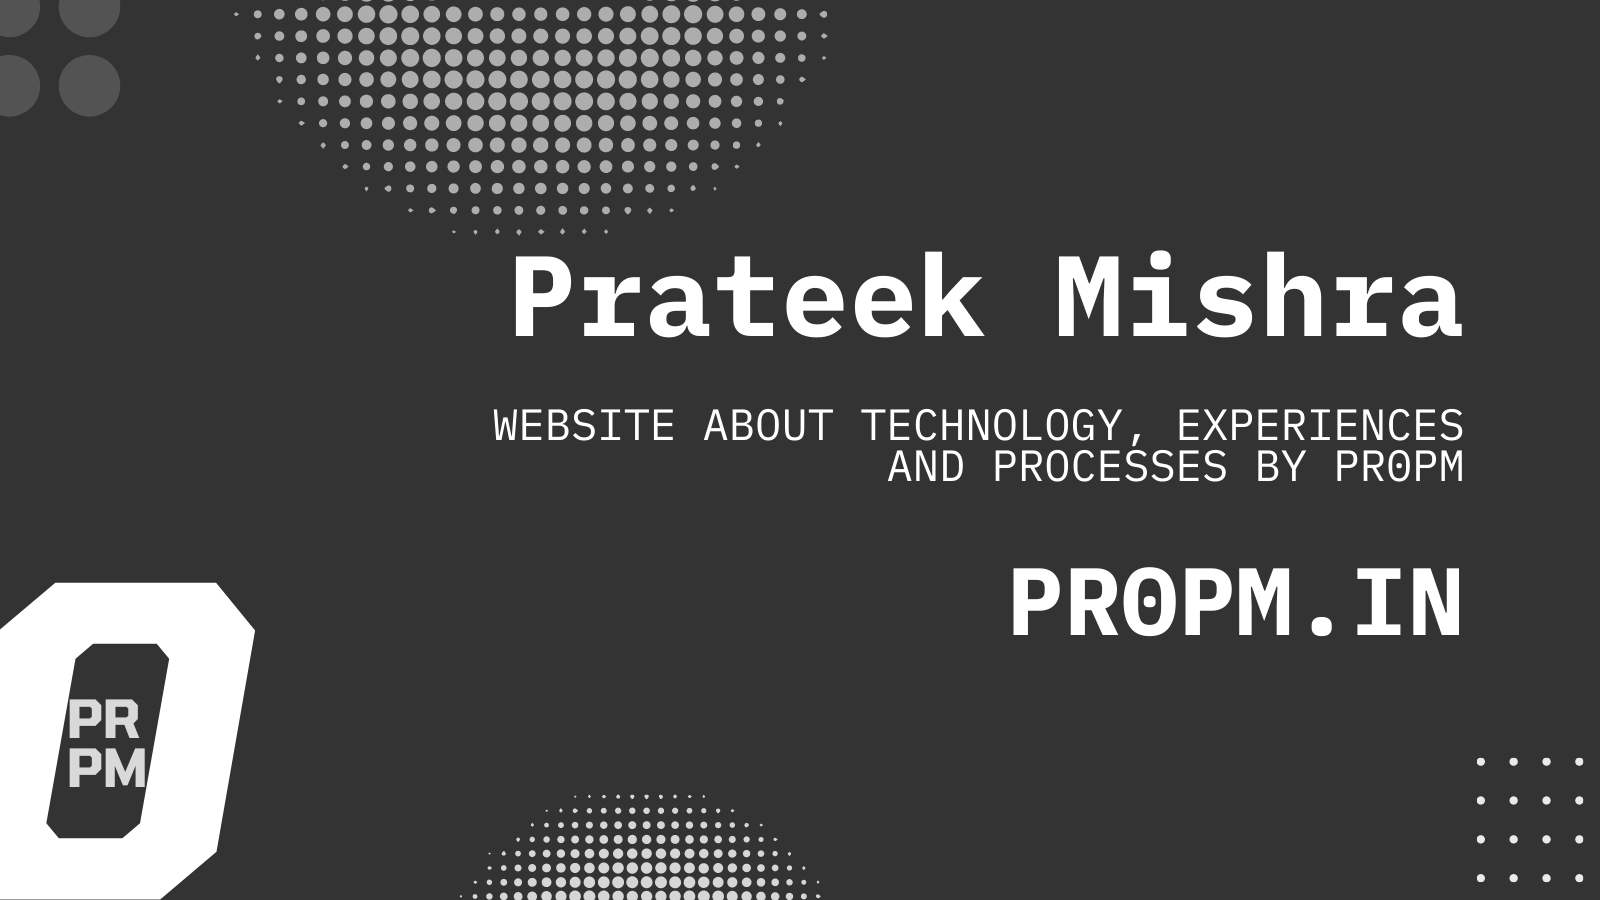
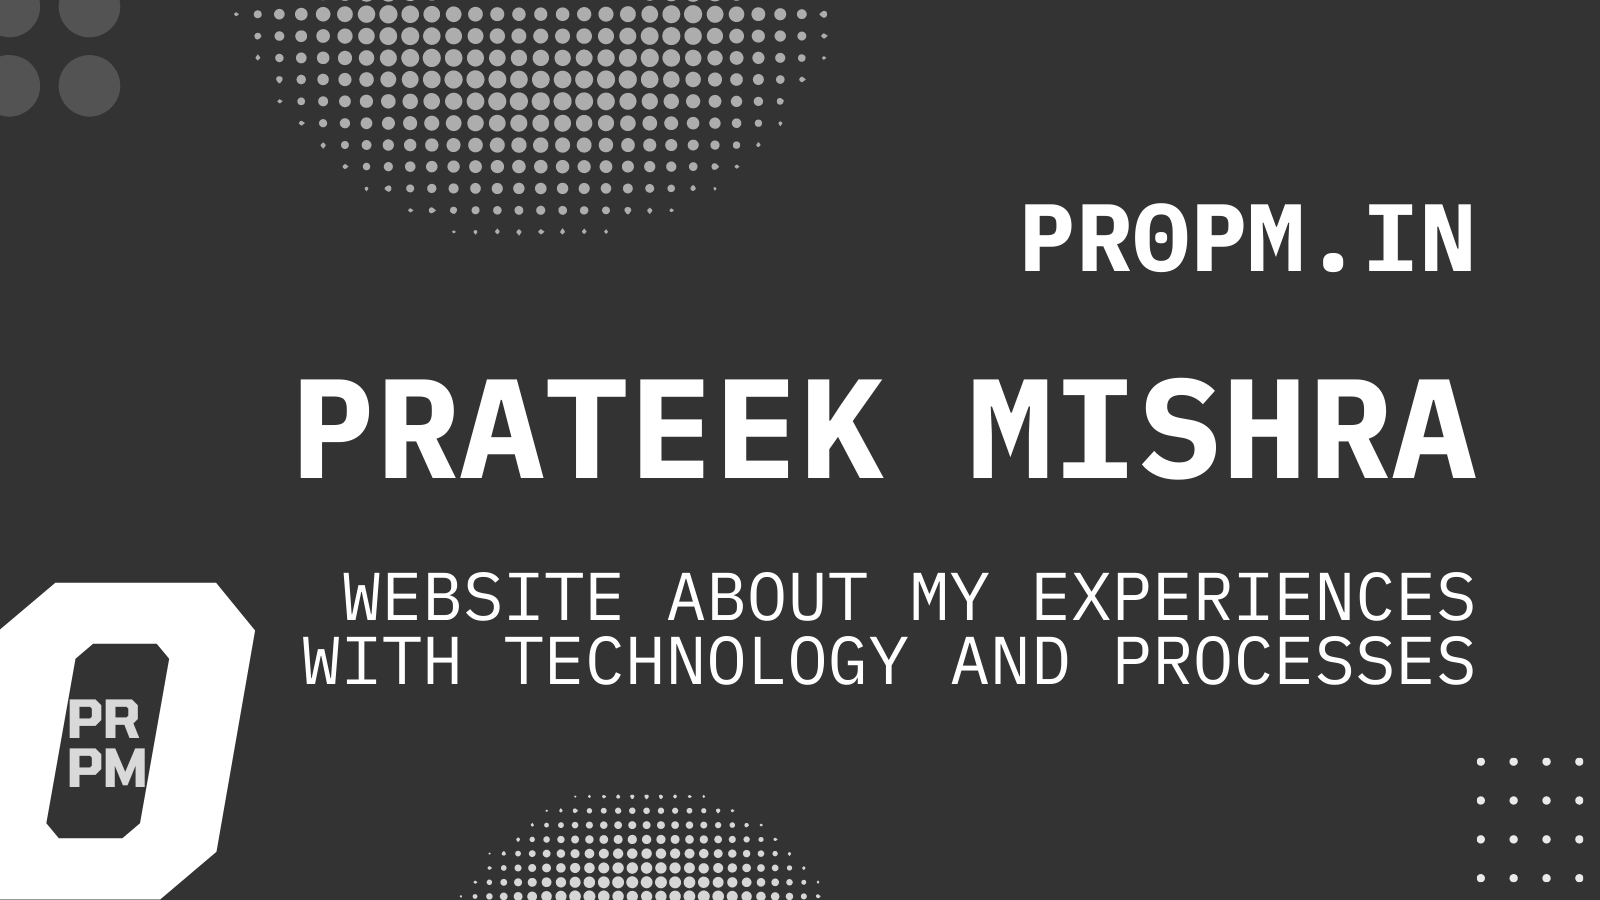
some fundamental fixes

diff --git a/about.html b/about.html
@@ -3,34 +3,31 @@
 <head>
   <meta charset="UTF-8">
   <meta name="viewport" content="width=device-width, initial-scale=1.0">
-  <title>pr0PM | About</title>
-  <script async defer data-website-id="3653e20a-987e-4c46-a5e9-00a166d49744" src="https://stats.pr0pm.in/umami.js"></script>
   <meta http-equiv="X-UA-Compatible" content="IE=edge">
   <meta name="viewport" content="width=device-width, initial-scale=1.0">
-  
-  <meta name="description" content="Website about technology, experiences and processes by pr0PM">
+
   <link rel="preload" type="text/css" as="style" href="/assets/simple.min.css" >
   <link rel="stylesheet" href="/assets/simple.min.css">
-  
   <link rel="icon" href="/assets/favicon-min.svg">
-  
+  <link rel="sitemap" type="application/xml" title="Sitemap" href="https://pr0pm.in/sitemap.xml">
+  <script async defer data-website-id="3653e20a-987e-4c46-a5e9-00a166d49744" src="https://stats.pr0pm.in/umami.js"></script>
+
+  <title>pr0PM | About</title>
+  <meta name="description" content="Website about my experiences with technology and processes">
+
   <meta property="og:title" content="pr0PM | About">
   <meta property="og:image" content="/assets/index.png">
   <meta property="og:url" content="https://pr0pm.in/about">
   <meta property="og:type" content="website">
   <meta property="og:site_name" content="Prateek Mishra | pr0PM">
-  <meta property="og:description" content="Website about technology, experiences and processes by pr0PM">
-  
+  <meta property="og:description" content="Website about my experiences with technology and processes">
+
   <meta name="twitter:card" content="summary_large_image">
   <meta name="twitter:title" content="pr0PM | About">
   <meta name="twitter:creator" content="MP0rp">
   <meta name="twitter:image" content="/assets/index.png">
   <meta name="twitter:url" content="https://pr0pm.in/about">
-  <meta name="twitter:description" content="Website about technology, experiences and processes by pr0PM">
-  
-  <!-- <link rel="canonical" href="https://pr0pm.in/">
-  <link rel="alternate" type="application/rss+xml" title="Simple.css" href="https://pr0pm.in/feed.xml"> -->
-  <link rel="sitemap" type="application/xml" title="Sitemap" href="https://pr0pm.in/sitemap.xml">
+  <meta name="twitter:description" content="Website about my experiences with technology and processes">
 </head>
 <body>
   <header>

diff --git a/blogs/template.html b/blogs/template.html
@@ -7,7 +7,7 @@
   <meta http-equiv="X-UA-Compatible" content="IE=edge">
   <meta name="viewport" content="width=device-width, initial-scale=1.0">
   
-  <meta name="description" content="Website about technology, experiences and processes by pr0PM">
+  <meta name="description" content="Website about my experiences with technology and processes">
   <link rel="preload" type="text/css" as="style" href="/assets/simple.min.css" >
   <link rel="stylesheet" href="/assets/simple.min.css">
   
@@ -18,14 +18,14 @@
   <meta property="og:url" content="https://pr0pm.in/about">
   <meta property="og:type" content="website">
   <meta property="og:site_name" content="Prateek Mishra | pr0PM">
-  <meta property="og:description" content="Website about technology, experiences and processes by pr0PM">
+  <meta property="og:description" content="Website about my experiences with technology and processes">
   
   <meta name="twitter:card" content="summary_large_image">
   <meta name="twitter:title" content="pr0PM | About">
   <meta name="twitter:creator" content="MP0rp">
   <meta name="twitter:image" content="/assets/favicon-min.svg">
   <meta name="twitter:url" content="https://pr0pm.in/about">
-  <meta name="twitter:description" content="Website about technology, experiences and processes by pr0PM">
+  <meta name="twitter:description" content="Website about my experiences with technology and processes">
   
   <!-- <link rel="canonical" href="https://pr0pm.in/">
   <link rel="alternate" type="application/rss+xml" title="Simple.css" href="https://pr0pm.in/feed.xml"> -->

diff --git a/links.html b/links.html
@@ -8,7 +8,7 @@
   <meta http-equiv="X-UA-Compatible" content="IE=edge">
   <meta name="viewport" content="width=device-width, initial-scale=1.0">
   
-  <meta name="description" content="Website about technology, experiences and processes by pr0PM">
+  <meta name="description" content="Website about my experiences with technology and processes">
   <link rel="preload" type="text/css" as="style" href="/assets/simple.min.css" >
   <link rel="stylesheet" href="/assets/simple.min.css">
   
@@ -19,14 +19,14 @@
   <meta property="og:url" content="https://pr0pm.in/links">
   <meta property="og:type" content="website">
   <meta property="og:site_name" content="Prateek Mishra | pr0PM">
-  <meta property="og:description" content="Website about technology, experiences and processes by pr0PM">
+  <meta property="og:description" content="Website about my experiences with technology and processes">
   
   <meta name="twitter:card" content="summary_large_image">
   <meta name="twitter:title" content="pr0PM | Links">
   <meta name="twitter:creator" content="MP0rp">
   <meta name="twitter:image" content="/assets/index.png">
   <meta name="twitter:url" content="https://pr0pm.in/links">
-  <meta name="twitter:description" content="Website about technology, experiences and processes by pr0PM">
+  <meta name="twitter:description" content="Website about my experiences with technology and processes">
   
   <!-- <link rel="canonical" href="https://pr0pm.in/">
   <link rel="alternate" type="application/rss+xml" title="Simple.css" href="https://pr0pm.in/feed.xml"> -->

diff --git a/blog.html b/blog.html
@@ -8,7 +8,7 @@
   <meta http-equiv="X-UA-Compatible" content="IE=edge">
   <meta name="viewport" content="width=device-width, initial-scale=1.0">
   
-  <meta name="description" content="Website about technology, experiences and processes by pr0PM">
+  <meta name="description" content="Website about my experiences with technology and processes">
   <link rel="preload" type="text/css" as="style" href="/assets/simple.min.css" >
   <link rel="stylesheet" href="/assets/simple.min.css">
   
@@ -19,14 +19,14 @@
   <meta property="og:url" content="https://pr0pm.in/blog">
   <meta property="og:type" content="website">
   <meta property="og:site_name" content="Prateek Mishra | pr0PM">
-  <meta property="og:description" content="Website about technology, experiences and processes by pr0PM">
+  <meta property="og:description" content="Website about my experiences with technology and processes">
   
   <meta name="twitter:card" content="summary_large_image">
   <meta name="twitter:title" content="pr0PM | Blog">
   <meta name="twitter:creator" content="MP0rp">
   <meta name="twitter:image" content="/assets/index.png">
   <meta name="twitter:url" content="https://pr0pm.in/blog">
-  <meta name="twitter:description" content="Website about technology, experiences and processes by pr0PM">
+  <meta name="twitter:description" content="Website about my experiences with technology and processes">
   
   <!-- <link rel="canonical" href="https://pr0pm.in/">
   <link rel="alternate" type="application/rss+xml" title="Simple.css" href="https://pr0pm.in/feed.xml"> -->

diff --git a/index.html b/index.html
@@ -8,7 +8,7 @@
   <meta http-equiv="X-UA-Compatible" content="IE=edge">
   <meta name="viewport" content="width=device-width, initial-scale=1.0">
   
-  <meta name="description" content="Website about technology, experiences and processes by pr0PM">
+  <meta name="description" content="Website about my experiences with technology and processes">
   <link rel="preload" type="text/css" as="style" href="/assets/simple.min.css" >
   <link rel="stylesheet" href="/assets/simple.min.css">
   
@@ -19,14 +19,14 @@
   <meta property="og:url" content="https://pr0pm.in/">
   <meta property="og:type" content="website">
   <meta property="og:site_name" content="Prateek Mishra | pr0PM">
-  <meta property="og:description" content="Website about technology, experiences and processes by pr0PM">
+  <meta property="og:description" content="Website about my experiences with technology and processes">
   
   <meta name="twitter:card" content="summary_large_image">
   <meta name="twitter:title" content="Prateek Mishra | pr0PM">
   <meta name="twitter:creator" content="MP0rp">
   <meta name="twitter:image" content="/assets/index.png">
   <meta name="twitter:url" content="https://pr0pm.in/">
-  <meta name="twitter:description" content="Website about technology, experiences and processes by pr0PM">
+  <meta name="twitter:description" content="Website about my experiences with technology and processes">
 
   <!-- <link rel="canonical" href="https://pr0pm.in/">
   <link rel="alternate" type="application/rss+xml" title="Simple.css" href="https://pr0pm.in/feed.xml"> -->

diff --git a/blogs/init.html b/blogs/init.html
@@ -7,7 +7,7 @@
   <meta http-equiv="X-UA-Compatible" content="IE=edge">
   <meta name="viewport" content="width=device-width, initial-scale=1.0">
   
-  <meta name="description" content="Website about technology, experiences and processes by pr0PM">
+  <meta name="description" content="Website about my experiences with technology and processes">
   <link rel="preload" type="text/css" as="style" href="/assets/simple.min.css" >
   <link rel="stylesheet" href="/assets/simple.min.css">
   
